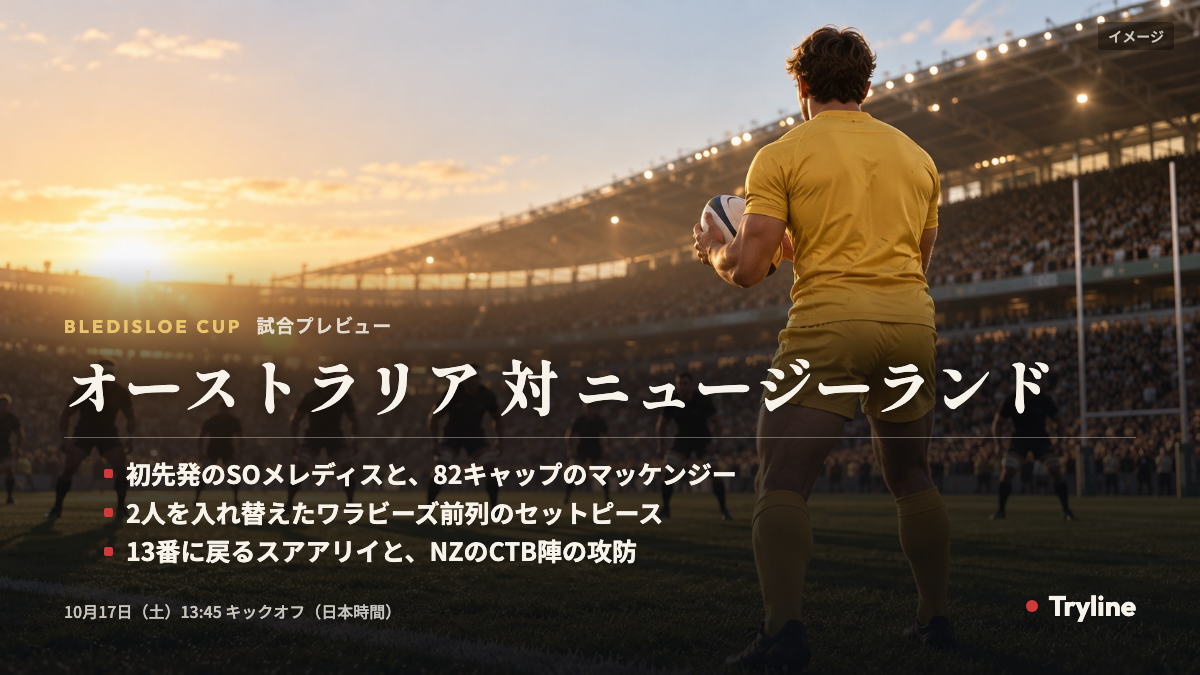
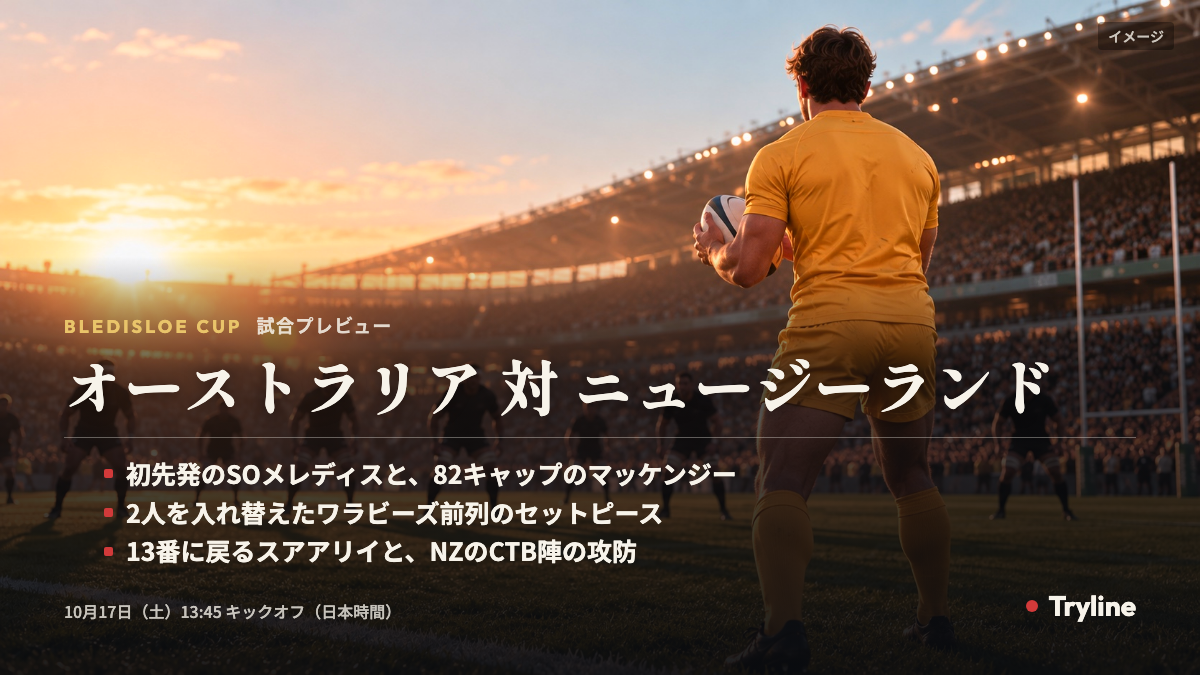
docs: warm jersey gold on Bledisloe 10/17 preview card

diff --git a/docs/notes/assets/2026-10-17-bledisloe-preview-card.html b/docs/notes/assets/2026-10-17-bledisloe-preview-card.html
@@ -4,7 +4,8 @@
 :root{--ink:#f7f3ea;--muted:rgba(247,243,234,.78);--accent:#d23a3a;--gold:#e9c46a}
 *{margin:0;box-sizing:border-box}
 html,body{width:1200px;height:675px;overflow:hidden;background:#111}
-.card{position:relative;width:1200px;height:675px;background:url(2026-10-17-bledisloe-preview-bg.jpg) 50% 60%/cover no-repeat;font-family:"Noto Sans JP",sans-serif;color:var(--ink)}
+.card{position:relative;width:1200px;height:675px;overflow:hidden;font-family:"Noto Sans JP",sans-serif;color:var(--ink)}
+.card::before{content:"";position:absolute;inset:0;background:url(2026-10-17-bledisloe-preview-bg.jpg) 50% 60%/cover no-repeat;filter:hue-rotate(-10deg) saturate(1.25)}
 .card::after{content:"";position:absolute;inset:0;background:linear-gradient(180deg,rgba(10,12,16,0) 38%,rgba(10,12,16,.65) 55%,rgba(10,12,16,.92) 100%)}
 .body{position:absolute;left:64px;right:64px;bottom:52px;z-index:1}
 .eyebrow{font-family:"Outfit",sans-serif;font-weight:700;letter-spacing:.18em;font-size:18px;color:var(--gold)}
